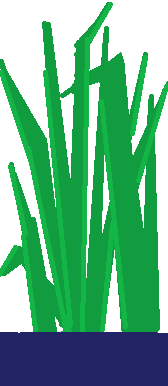
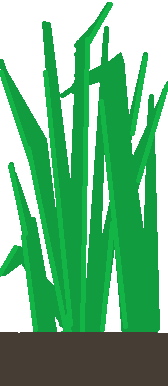
drawing terrain in js

Changed region(s): [[0.0, 0.8394, 1.0, 1.0]]

diff --git a/js/app.js b/js/app.js
@@ -1,6 +1,77 @@
-// states go here
+// DOM References for canvas
+let game = document.getElementById("game");
+let ctx = game.getContext("2d");
 
-// methods go here
+// Set game canvas width and height
+game.setAttribute("width", getComputedStyle(game).width);
+game.setAttribute("height", getComputedStyle(game).height);
 
-// event listeners go here
-console.log("working");
+// creates an array to represent a gameboard that is 800/20=40 blocks wide
+let gameBoard = new Array(game.width/20);
+for (let i=0; i < gameBoard.length; i++) {
+    gameBoard[i] = new Array(game.height/20);
+}
+
+// makes a new block
+function Block(x, y, color, width, height, type) {
+    this.x = x;
+    this.y = y;
+    this.color = color;
+    this.width = width;
+    this.height = height;
+    this.type = type;
+    // console.log(this.x, this.y, this.color, this.width, this.height, this.type);
+    this.render = function() {
+        ctx.fillStyle = this.color;
+        ctx.fillRect(this.x, this.y, this.width, this.height);
+    }
+}
+
+function newTerrain() {
+    // DRAW TREASURE CHEST
+    let treasure =  new Block(Math.floor(Math.random()*game.width/20)*20,
+    game.height-20, "red", 20, 20, "treasure");
+    treasure.render();
+    // console.log(treasure.x/20, treasure.y/20, treasure.type);
+    // add treasure chest to the gameboard;
+    gameBoard[treasure.x/20][treasure.y/20] = treasure;
+    
+    // DRAW STONES
+    // draw first two layers
+    for (let i = 0; i < gameBoard.length; i++) {
+        if (gameBoard[i][gameBoard[i].length-1] == undefined) {
+            let stone = new Block(i*20, game.height-20, "gray", 20, 20, "stone");
+            stone.render();
+            gameBoard[i][gameBoard[i].length-1] = stone;
+        }
+        let stone2 = new Block(i*20, game.height-40, "gray", 20, 20, "stone");
+        stone2.render();
+        gameBoard[i][gameBoard[i].length-2] = stone2;
+    }
+    // draw random layer of stone: draw three hills
+    for (let i = 0; i < 3; i++) {
+        hill = 4 + Math.floor(Math.random() * 4);
+        leftBank = Math.floor(Math.random() * 10) + i*7;
+        console.log(hill, "at", leftBank);
+        for(let j = leftBank; j < hill; j++) {
+            console.log("index", j, gameBoard[j][gameBoard[j].length-3]);
+            if(gameBoard[j][gameBoard[j].length-3] == undefined) {
+                let stone = new Block(j*20, game.height-60, "gray", 20, 20, "stone");
+                console.log(stone);
+                stone.render();
+            }
+        }
+    }
+    // console.log(gameBoard);
+
+    // DRAW MUD
+    // draw 2 blocks of mud on top of every stone block
+    
+    // DRAW LEAVES
+    // draw leaves somewhere on top of mud
+}
+
+newTerrain();
+function gameLoop() {
+    
+}

diff --git a/js/app-test.js b/js/app-test.js
@@ -1,0 +1,69 @@
+// DOM References for canvas
+let game = document.getElementById("game");
+let ctx = game.getContext("2d");
+
+// Set game canvas width and height
+game.setAttribute("width", getComputedStyle(game).width);
+game.setAttribute("height", getComputedStyle(game).height);
+
+// creates an array to represent a gameboard that is 800/20=40 blocks wide
+let gameBoard = new Array(game.width/20);
+for (let i=0; i < gameBoard.length; i++) {
+    gameBoard[i] = new Array(game.height/20);
+    gameBoard[i] = gameBoard[i].map(i =>"");
+}
+
+// define things to draw blocks
+function renderBlock(color, x, y) {
+    ctx.fillStyle = color;
+    ctx.fillRect(x, y, 20, 20);
+}
+let treasureDesc = "red";
+let stoneDesc = "gray";
+let mudDesc = "brown";
+let leafDesc = "green";
+
+
+function newTerrain() {
+    // DRAW TREASURE CHEST
+    let treasureX = Math.floor(Math.random()*game.width/20)*20;
+    let treasureY = game.height - 20;
+    renderBlock(treasureDesc, treasureX, treasureY);
+    // add treasure chest to the gameboard;
+    gameBoard[treasureX/20][treasureY/20] = "treasure";
+    
+    // DRAW STONES
+    // draw first two layers
+    for (let i = 0; i < gameBoard.length; i++) {
+        if (gameBoard[i][gameBoard[i].length-1] != "treasure") {
+            renderBlock(stoneDesc, i*20, game.height-20);
+            gameBoard[i][gameBoard[i].length-1] = "stone";
+        }
+        renderBlock(stoneDesc, i*20, game.height-40);
+        gameBoard[i][gameBoard[i].length-2] = "stone";
+    }
+    // draw random layer of stone: draw three hills
+    for (let i = 0; i < 3; i++) {
+        hill = 4 + Math.floor(Math.random() * 4);
+        leftBank = Math.floor(Math.random() * 10) + i*7;
+        console.log(hill, "at", leftBank);
+        for(let j = leftBank; j < hill; j++) {
+            console.log("index", j, gameBoard[j][gameBoard[j].length-2]);
+            if(gameBoard[j][gameBoard[j].length-3] == "") {
+                renderBlock(stoneDesc, j*20, game.height-60);
+            }
+        }
+    }
+    // console.log(gameBoard);
+
+    // DRAW MUD
+    // draw 2 blocks of mud on top of every stone block
+    
+    // DRAW LEAVES
+    // draw leaves somewhere on top of mud
+}
+
+newTerrain();
+function gameLoop() {
+    
+}

diff --git a/index.html b/index.html
@@ -8,7 +8,6 @@
     <link rel="icon" type="image/png" href="img/tool1.png">
     <link href="https://fonts.googleapis.com/css?family=Cambay|Sigmar+One&display=swap" rel="stylesheet">
     <link rel="stylesheet" href="style/style.css" type="text/css">
-    <script src="js/app.js" type="text/javascript"></script>
 </head>
 <body>
     <div id="container">
@@ -26,8 +25,8 @@
             </button>
         </div>
         <div id="game-bg">
-            <div id="game">
-            </div>
+            <canvas id="game">
+            </canvas>
         </div>
         <div id="menubar">
             <div id="arrow-keys">
@@ -49,5 +48,6 @@
             This is your objective
         </div>
     </div>
+    <script src="js/app-test.js" type="text/javascript"></script>
 </body>
 </html>

diff --git a/style/style.css b/style/style.css
@@ -35,12 +35,14 @@ h1 {
 }
 #game-bg{
     background-color: rgb(125, 205, 236);
+    height: 280px;
 }
 #game {
     height: 280px;
     width: 800px;
     background: url(../img/grass.png);
     background-repeat: repeat-x;
+    background-size: 115px 301px;
 }
 #menubar {
     height: 50px;
